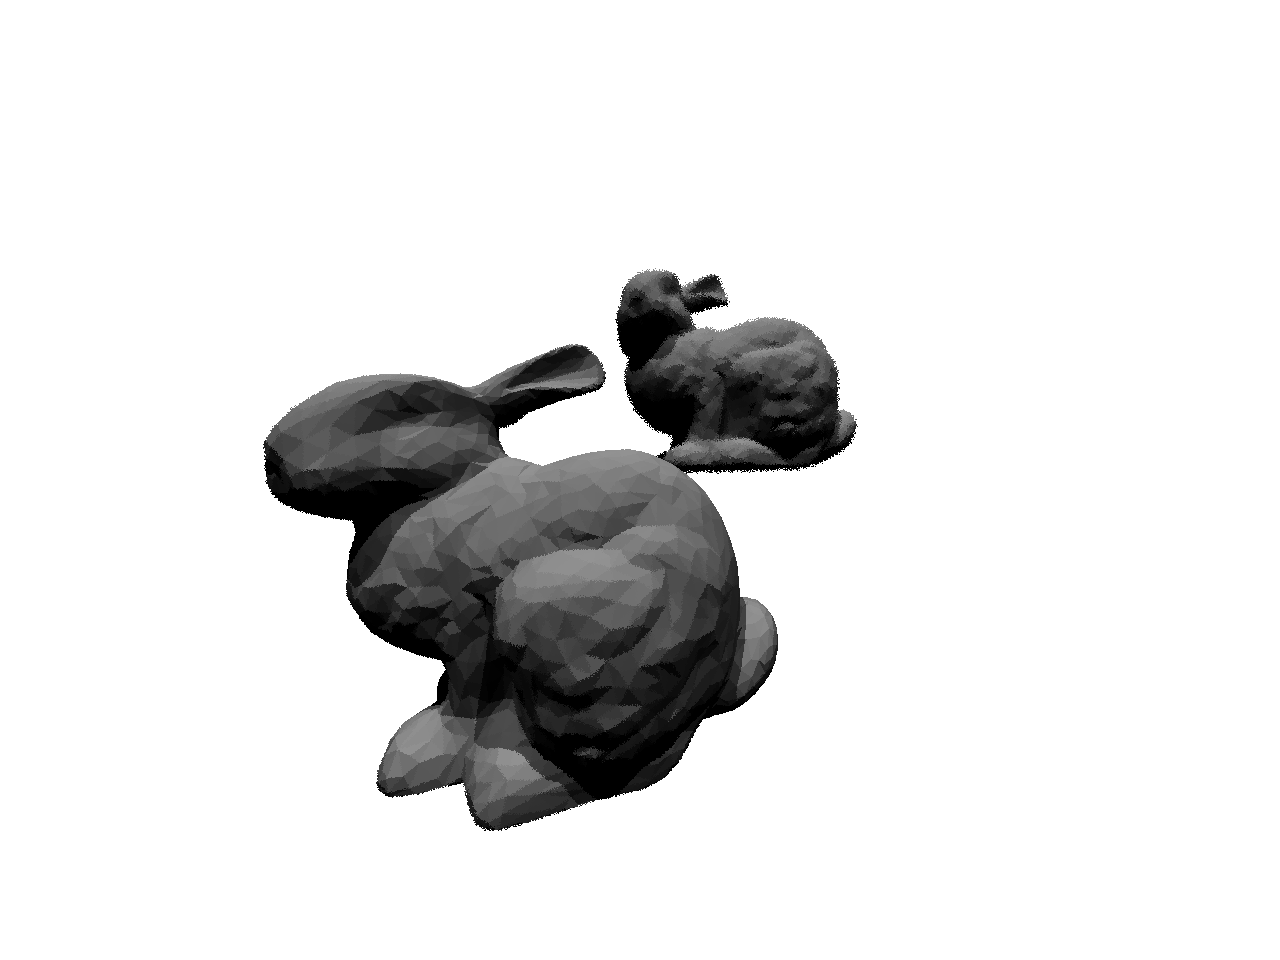
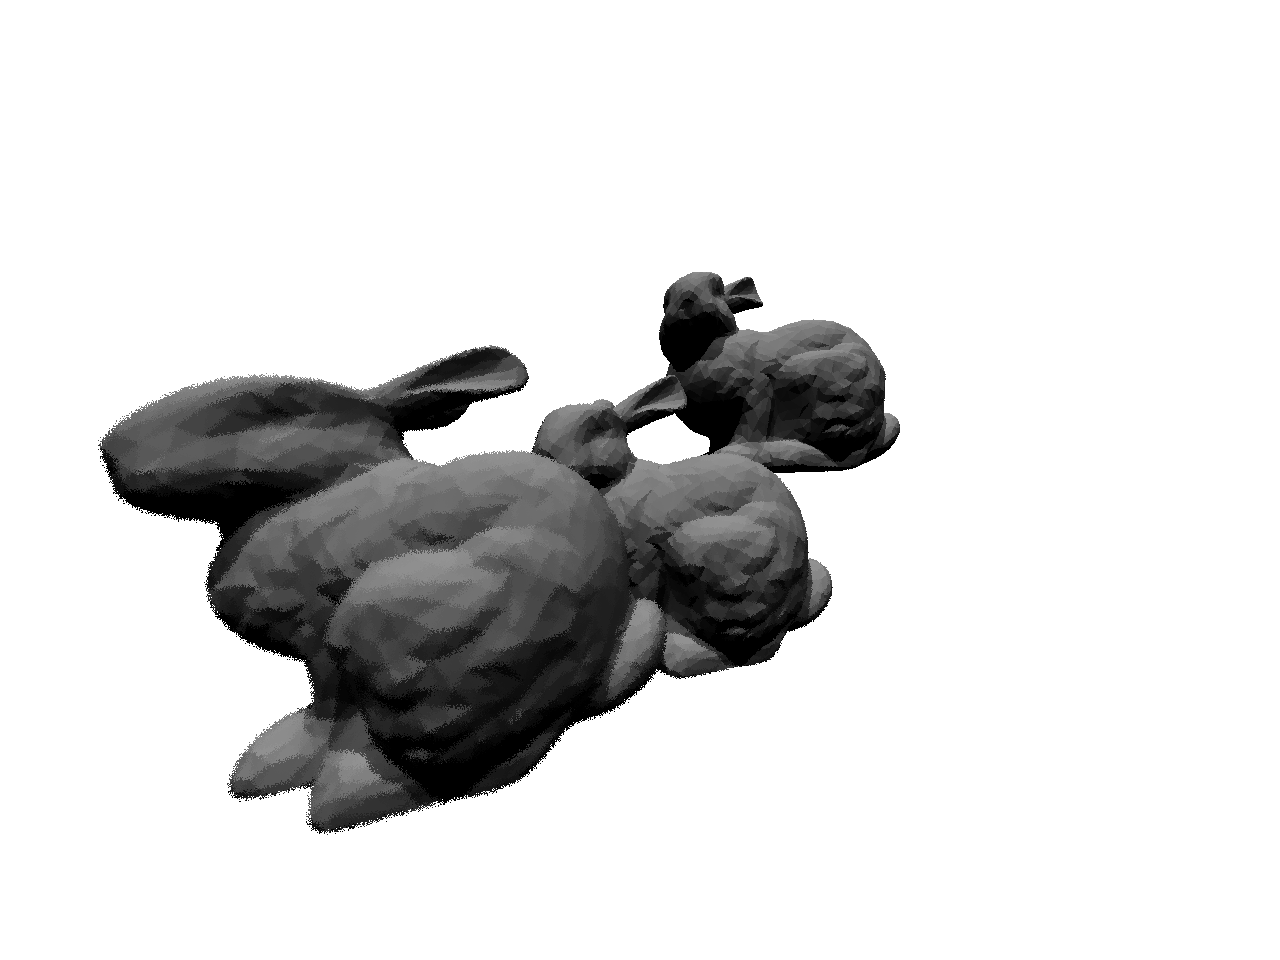
update README

Changed region(s): [[0.0625, 0.2812, 0.7188, 0.875]]

diff --git a/src/main.cpp b/src/main.cpp
@@ -11,16 +11,23 @@
 // function().
 int main(int argc, char** argv)
 {
-    
-    for (int i = 1; i < 3; i ++) {
-        Scene scene(1280, 960);
+    MeshTriangle bunny1("../../models/bunny.obj", -3.5, -1, 4, 50, MaterialType::DIFFUSE_AND_GLOSSY);
+    MeshTriangle bunny2("../../models/bunny.obj", 6.5, 3, -4, 70, MaterialType::DIFFUSE_AND_GLOSSY);
+    MeshTriangle bunny3("../../models/bunny.obj", 1.5, -2, 0, 60, MaterialType::DIFFUSE_AND_GLOSSY);
 
-        MeshTriangle bunny1("../models/bunny.obj", -1.5, -1, 4, 50, MaterialType::DIFFUSE_AND_GLOSSY);
-        MeshTriangle bunny2("../models/bunny.obj", 4.5, 3, -4, 70, MaterialType::DIFFUSE_AND_GLOSSY);
+
+    std::cout << "Test Depth Refocusing: \n";
+    int depth[] = {3, 15, 25};
+    for (int i = 0; i < 3; i ++) {
+        Scene scene(1280, 960);
 
         scene.Add(&bunny1);
         scene.Add(&bunny2);
-        scene.focalDepth = i*5;
+        scene.Add(&bunny3);
+
+        scene.focalDepth = depth[i];
+        std::cout << "depth = "<< scene.focalDepth <<"\n";
+
         scene.Add(std::make_unique<Light>(Vector3f(-20, 70, 30), 1));
         scene.Add(std::make_unique<Light>(Vector3f(20, 70, 30), 1));
         scene.buildBVH();
@@ -31,11 +38,42 @@ int main(int argc, char** argv)
         r.Render(scene, i);
         auto stop = std::chrono::system_clock::now();
 
-        std::cout << "Render complete: \n";
-        std::cout << "Time taken: " << std::chrono::duration_cast<std::chrono::hours>(stop - start).count() << " hours\n";
-        std::cout << "          : " << std::chrono::duration_cast<std::chrono::minutes>(stop - start).count() << " minutes\n";
-        std::cout << "          : " << std::chrono::duration_cast<std::chrono::seconds>(stop - start).count() << " seconds\n";
+        std::cout << "Picture "<< i <<" complete: \n";
+        //std::cout << "Time taken: " << std::chrono::duration_cast<std::chrono::hours>(stop - start).count() << " hours\n";
+        //std::cout << "          : " << std::chrono::duration_cast<std::chrono::minutes>(stop - start).count() << " minutes\n";
+        //std::cout << "          : " << std::chrono::duration_cast<std::chrono::seconds>(stop - start).count() << " seconds\n";
 
     }
+
+    std::cout << "Test Aperture Adjustment: \n";
+    for (int i = 0; i < 2; i ++) {
+        Scene scene(1280, 960);
+
+        scene.Add(&bunny1);
+        scene.Add(&bunny2);
+        scene.Add(&bunny3);
+
+        scene.focalDepth = depth[2];
+        scene.aperture = scene.aperture + (i + 1) * 0.2;
+        printf("apartment = %lf\n",scene.aperture);
+
+        scene.Add(std::make_unique<Light>(Vector3f(-20, 70, 30), 1));
+        scene.Add(std::make_unique<Light>(Vector3f(20, 70, 30), 1));
+        scene.buildBVH();
+
+        Renderer r;
+
+        auto start = std::chrono::system_clock::now();
+
+        int num = i + sizeof(depth)/sizeof(int);
+        r.Render(scene, num);
+        auto stop = std::chrono::system_clock::now();
+
+        std::cout << "Picture "<< num <<" complete: \n";
+        //std::cout << "Time taken: " << std::chrono::duration_cast<std::chrono::hours>(stop - start).count() << " hours\n";
+        //std::cout << "          : " << std::chrono::duration_cast<std::chrono::minutes>(stop - start).count() << " minutes\n";
+        //std::cout << "          : " << std::chrono::duration_cast<std::chrono::seconds>(stop - start).count() << " seconds\n";
+
+    }    
     return 0;
 }

diff --git a/src/Renderer.cpp b/src/Renderer.cpp
@@ -1,12 +1,8 @@
-//
-// Created by goksu on 2/25/20.
-//
-
 #include <fstream>
 #include "Scene.hpp"
 #include "Renderer.hpp"
 // For uniform_int_distribution::operator()
-// #include <chrono>
+#include <chrono>
 #include <random>
 
 
@@ -38,16 +34,16 @@ void Renderer::Render(const Scene& scene, int sceneNumber)
 
             // get a uniform random number genertor using current time as seed
             // reference: http://www.cplusplus.com/reference/random/uniform_real_distribution/operator()/
-            // unsigned seed = std::chrono::system_clock::now().time_since_epoch().count();
-            // std::default_random_engine generator (seed);
-            // std::uniform_int_distribution<int> distribution(0,1000);
+            ///unsigned seed = std::chrono::system_clock::now().time_since_epoch().count();
+            //std::default_random_engine generator (seed);
+            //std::uniform_int_distribution<int> distribution(0,1000);
             
-            // Vector2f point = Vector2f(0.001f * distribution(generator), 0.001f * distribution(generator));
+            //Vector2f point = Vector2f(0.001f * distribution(generator), 0.001f * distribution(generator));
             double rand1 = ((double) rand() / (RAND_MAX));
             double rand2 = ((double) rand() / (RAND_MAX));
             
             Vector3f apertureOffset = Vector3f(rand1 * scene.aperture, rand2 * scene.aperture, 0.0f);
-            // Vector3f apertureOffset = Vector3f(point.x * scene.aperture, point.y * scene.aperture, 0.0f);
+            //Vector3f apertureOffset = Vector3f(point.x * scene.aperture, point.y * scene.aperture, 0.0f);
             eye_pos = eye_pos + apertureOffset;
             dir = dir * scene.focalDepth; // scale ray dir to focus at particular depth
             dir = dir - apertureOffset; 

diff --git a/src/BVH.cpp b/src/BVH.cpp
@@ -21,9 +21,9 @@ BVHAccel::BVHAccel(std::vector<Object*> p, int maxPrimsInNode,
     int mins = ((int)diff / 60) - (hrs * 60);
     int secs = (int)diff - (hrs * 3600) - (mins * 60);
 
-    printf(
-        "\rBVH Generation complete: \nTime Taken: %i hrs, %i mins, %i secs\n\n",
-        hrs, mins, secs);
+    // printf(
+    //     "\rBVH Generation complete: \nTime Taken: %i hrs, %i mins, %i secs\n\n",
+    //     hrs, mins, secs);
 }
 
 BVHBuildNode* BVHAccel::recursiveBuild(std::vector<Object*> objects)

diff --git a/src/Scene.hpp b/src/Scene.hpp
@@ -1,7 +1,3 @@
-//
-// Created by Göksu Güvendiren on 2019-05-14.
-//
-
 #pragma once
 
 #include <vector>
@@ -22,7 +18,7 @@ public:
     // double fov = 90;
     double fov = 120;
     Vector3f backgroundColor = Vector3f(1, 1, 1);
-    int maxDepth = 20;
+    int maxDepth = 30;
     float aperture = 0.1f; 
     int focalDepth = 8;
     Scene(int w, int h) : width(w), height(h)

diff --git a/src/Scene.cpp b/src/Scene.cpp
@@ -1,12 +1,8 @@
-//
-// Created by Göksu Güvendiren on 2019-05-14.
-//
-
 #include "Scene.hpp"
 
 
 void Scene::buildBVH() {
-    printf(" - Generating BVH...\n\n");
+    //printf(" - Generating BVH...\n\n");
     this->bvh = new BVHAccel(objects, 1, BVHAccel::SplitMethod::NAIVE);
 }
 

diff --git a/src/Intersection.hpp b/src/Intersection.hpp
@@ -1,7 +1,3 @@
-//
-// Created by LEI XU on 5/16/19.
-//
-
 #ifndef RAYTRACING_INTERSECTION_H
 #define RAYTRACING_INTERSECTION_H
 #include "Vector.hpp"

diff --git a/src/Bounds3.hpp b/src/Bounds3.hpp
@@ -1,7 +1,3 @@
-//
-// Created by LEI XU on 5/16/19.
-//
-
 #ifndef RAYTRACING_BOUNDS3_H
 #define RAYTRACING_BOUNDS3_H
 #include "Ray.hpp"

diff --git a/src/Ray.hpp b/src/Ray.hpp
@@ -1,7 +1,3 @@
-//
-// Created by LEI XU on 5/16/19.
-//
-
 #ifndef RAYTRACING_RAY_H
 #define RAYTRACING_RAY_H
 #include "Vector.hpp"

diff --git a/src/Object.hpp b/src/Object.hpp
@@ -1,6 +1,3 @@
-//
-// Created by LEI XU on 5/13/19.
-//
 #pragma once
 #ifndef RAYTRACING_OBJECT_H
 #define RAYTRACING_OBJECT_H

diff --git a/src/Material.hpp b/src/Material.hpp
@@ -1,7 +1,3 @@
-//
-// Created by LEI XU on 5/16/19.
-//
-
 #ifndef RAYTRACING_MATERIAL_H
 #define RAYTRACING_MATERIAL_H
 

diff --git a/src/Sphere.hpp b/src/Sphere.hpp
@@ -1,7 +1,3 @@
-//
-// Created by LEI XU on 5/13/19.
-//
-
 #ifndef RAYTRACING_SPHERE_H
 #define RAYTRACING_SPHERE_H
 

diff --git a/src/Renderer.hpp b/src/Renderer.hpp
@@ -1,6 +1,3 @@
-//
-// Created by goksu on 2/25/20.
-//
 // #include <eigen3/Eigen/Eigen>
 #include "Scene.hpp"
 
